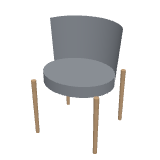
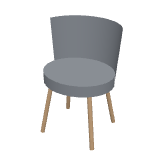
Open and glass-fronted fireplaces, trimmed hedge, wooden dining chair with arms; tub chair legs under the seat
Claude-Session: https://claude.ai/code/session_015nMawU8UEnxGBrfddyhb2N

diff --git a/frontend/render/modern.ts b/frontend/render/modern.ts
@@ -3205,7 +3205,7 @@ const BUILDERS: Record<string, Build> = {
     b.box(w - 0.06, h - seat - 0.05, 0.04, 0, seat + 0.05, -d / 2 + 0.04, f, 0.02)?.rotation.set(-0.1, 0, 0);
   },
   dining_armchair: (b, w, d, h, f, _c, a) => {
-    for (const sx of [-1, 1]) for (const sz of [-1, 1]) b.cyl(0.018, 0.014, 0.44, sx * (w / 2 - 0.05), 0, sz * (d / 2 - 0.05), a, 10);
+    for (const sx of [-1, 1]) for (const sz of [-1, 1]) b.rod(v(sx * w * 0.25, 0.42, 0.02 + sz * d * 0.22), v(sx * w * 0.36, 0, 0.02 + sz * d * 0.34), 0.016, a, 8);
     // a curved shell: back and arms in one, a cushion
     const shell = new THREE.CylinderGeometry(w / 2, w / 2 - 0.03, h - 0.44, 28, 1, true, Math.PI * 0.6, Math.PI * 0.8);
     shell.scale(1, 1, (d * 0.95) / w);
@@ -3235,6 +3235,81 @@ const BUILDERS: Record<string, Build> = {
     canopyAndCord(b, h, sh, a);
     b.add(new THREE.LatheGeometry([[0.06, 1], [0.12, 0.85], [0.18, 0.5], [0.35, 0.15], [0.5, 0]].map(([x, y]) => new THREE.Vector2(x * r * 2, y * sh)), 32), shadeMat(f, c), 0, 0, 0);
     bulb(b, 0, sh * 0.2, 0, 0.04);
+  },
+  fireplace_open: (b, w, d, h, f, _c, a) => {
+    // a classic open fireplace: a surround with a mantel shelf, an arched firebox, logs burning
+    const ow = w * 0.55;
+    const oh = Math.min(0.75, h * 0.6);
+    const s = new THREE.Shape();
+    s.moveTo(-w / 2, 0);
+    s.lineTo(w / 2, 0);
+    s.lineTo(w / 2, h - 0.08);
+    s.lineTo(-w / 2, h - 0.08);
+    s.lineTo(-w / 2, 0);
+    const hole = new THREE.Path();
+    hole.moveTo(-ow / 2, 0.08);
+    hole.lineTo(ow / 2, 0.08);
+    hole.lineTo(ow / 2, oh - ow * 0.2);
+    hole.quadraticCurveTo(0, oh + ow * 0.12, -ow / 2, oh - ow * 0.2);
+    hole.lineTo(-ow / 2, 0.08);
+    s.holes.push(hole);
+    const surround = new THREE.ExtrudeGeometry(s, { depth: d * 0.35, bevelEnabled: true, bevelSize: 0.01, bevelThickness: 0.01, bevelSegments: 1, curveSegments: 12 });
+    b.add(surround, f, 0, 0, d / 2 - d * 0.35);
+    b.box(ow + 0.02, oh + 0.05, d * 0.65, 0, 0.06, -d / 2 + d * 0.325, mat("#1b1714", { roughness: 1 }));
+    b.box(w + 0.14, 0.08, d + 0.06, 0, h - 0.08, 0.03, a, 0.01);
+    b.box(w + 0.3, 0.06, d + 0.3, 0, 0, 0.15, mat("#5e5a54", { roughness: 0.9 }), 0.005);
+    for (const [x, rz] of [[-0.12, 0.25], [0.1, -0.2], [0, 0]] as const) b.add(new THREE.CylinderGeometry(0.05, 0.05, ow * 0.7, 8).rotateZ(Math.PI / 2 + rz), mat(C.trunk), x * ow, 0.13 + (rz === 0 ? 0.07 : 0), 0.02);
+    fire(b, ow * 0.6, 0.12, 0.06, oh * 0.45);
+    for (const sx of [-1, 1]) b.cyl(0.03, 0.03, 0.14, sx * w * 0.32, h, 0.05, mat(C.ceramic), 12);
+  },
+  fireplace_glass: (b, w, d, h, f) => {
+    // a modern fire behind glass on three sides, a black frame, a plinth with logs stored under it
+    const base = Math.min(0.45, h * 0.35);
+    const fh = Math.min(0.55, h - base - 0.1);
+    b.box(w, base, d, 0, 0, 0, f, 0.01);
+    for (let i = 0; i < Math.round(w / 0.16); i++) b.add(new THREE.CylinderGeometry(0.05, 0.05, d * 0.8, 8).rotateX(Math.PI / 2), mat(i % 2 ? C.trunk : "#7a5a43"), -w / 2 + 0.1 + i * 0.16, 0.08, 0.05);
+    b.box(w - 0.04, base - 0.12, 0.02, 0, 0.1, d / 2 - 0.05, mat("#141414"));
+    const y = base;
+    b.box(w, 0.04, d, 0, y, 0, mat(C.black));
+    b.box(w, 0.04, d, 0, y + fh, 0, mat(C.black));
+    for (const sx of [-1, 1]) for (const sz of [-1, 1]) b.box(0.03, fh, 0.03, sx * (w / 2 - 0.015), y + 0.04, sz * (d / 2 - 0.015), mat(C.black));
+    b.box(w - 0.06, 0.02, d - 0.06, 0, y + 0.04, 0, mat("#3a3a3a", { roughness: 1 }));
+    fire(b, w * 0.7, y + 0.06, 0, fh * 0.6);
+    b.box(w - 0.03, fh - 0.04, 0.004, 0, y + 0.06, d / 2 - 0.015, glass());
+    for (const sx of [-1, 1]) b.box(0.004, fh - 0.04, d - 0.03, sx * (w / 2 - 0.015), y + 0.06, 0, glass());
+    b.box(w, h - y - fh - 0.04, d * 0.9, 0, y + fh + 0.04, -d * 0.05, f, 0.01);
+  },
+  hedge_trimmed: (b, w, d, h) => {
+    // a hedge cut to a crisp block: a slightly rounded core, small leaves all over
+    const rand = random(353);
+    b.batch(new RoundedBoxGeometry(w, h - 0.03, d, 3, Math.min(0.08, d / 4)), mat("#2f5a2f"), matrix(0, (h - 0.03) / 2 + 0.03, 0));
+    const leaf = smallLeaf(0.05);
+    const n = Math.min(2400, Math.round((w * h * 2 + d * h * 2 + w * d) * 160));
+    for (let i = 0; i < n; i++) {
+      const face = rand();
+      let x: number;
+      let y: number;
+      let z: number;
+      if (face < (w * d) / (w * d + 2 * w * h + 2 * d * h)) [x, y, z] = [(rand() - 0.5) * w, h, (rand() - 0.5) * d];
+      else if (rand() < w / (w + d)) [x, y, z] = [(rand() - 0.5) * w, 0.05 + rand() * (h - 0.05), (rand() > 0.5 ? 1 : -1) * (d / 2)];
+      else [x, y, z] = [(rand() > 0.5 ? 1 : -1) * (w / 2), 0.05 + rand() * (h - 0.05), (rand() - 0.5) * d];
+      b.batch(leaf.clone(), leafMat(i % 3 ? "#3f7037" : "#4f8a3f"), matrix(x, y, z, rand() * Math.PI, rand() * Math.PI * 2, rand() * Math.PI, 0.8 + rand() * 0.5));
+    }
+    b.box(w * 0.2, 0.05, d * 0.3, 0, 0, 0, mat(C.trunk));
+  },
+  chair_arm_wood: (b, w, d, h, f, _c, a) => {
+    // a classic wooden dining chair with arms and an upholstered seat
+    for (const sx of [-1, 1]) {
+      const x = sx * (w / 2 - 0.03);
+      b.box(0.04, 0.65, 0.04, x, 0, d / 2 - 0.05, f);
+      b.box(0.04, h, 0.04, x, 0, -d / 2 + 0.04, f)?.rotation.set(-0.06, 0, 0);
+      b.box(0.05, 0.03, d - 0.02, x, 0.65, 0.0, f, 0.01);
+      b.box(0.03, 0.03, d - 0.1, x, 0.15, 0, f);
+    }
+    b.box(w - 0.06, 0.06, d - 0.08, 0, 0.4, 0.01, f, 0.01);
+    b.box(w - 0.1, 0.06, d - 0.14, 0, 0.45, 0.02, a, 0.025);
+    b.box(w - 0.08, 0.12, 0.03, 0, h - 0.14, -d / 2 + 0.05, f, 0.01)?.rotation.set(-0.06, 0, 0);
+    for (let i = 0; i < 3; i++) b.box(0.03, h - 0.65, 0.02, -w * 0.18 + i * w * 0.18, 0.5, -d / 2 + 0.06, f)?.rotation.set(-0.06, 0, 0);
   },
   // ----- vehicles -----
   car_hatchback: (b, w, d, h, _f, color) => car(b, w, d, h, color, "hatchback"),

diff --git a/frontend/model/modern.ts b/frontend/model/modern.ts
@@ -107,6 +107,8 @@ export const MODERN_GROUPS: { id: string; kinds: ModernKind[] }[] = [
       k("mirror_wall", "mirror", [0.5, 0.03, 1.1], ["black", "oak", "white", "sand"], { mount: "wall", elevation: 0.9 }),
       k("fireplace_stove", "item", [0.55, 0.45, 2.4], ["black", "anthracite", "red"]),
       k("fireplace_wall", "item", [1.6, 0.4, 1.3], ["white", "concrete", "anthracite"]),
+      k("fireplace_open", "item", [1.5, 0.45, 1.2], ["white", "concrete", "sand", "terracotta", "anthracite"], { accents: ["oak", "walnut", "white", "marble", "black"] }),
+      k("fireplace_glass", "item", [1.0, 0.55, 2.4], ["anthracite", "white", "concrete", "black"]),
       k("piano_upright", "item", [1.5, 0.6, 1.25], ["black", "walnut", "white"]),
       k("piano_grand", "item", [1.5, 1.9, 1.0], ["black", "white", "walnut"]),
       k("aquarium", "item", [1.0, 0.42, 1.3], WOOD),
@@ -130,6 +132,7 @@ export const MODERN_GROUPS: { id: string; kinds: ModernKind[] }[] = [
       k("bar_stool", "stool", [0.4, 0.4, 0.75], ["black", "oak", "white"], { accents: ["black", "brass", "chrome"] }),
       k("bar_stool_back", "stool", [0.45, 0.45, 1.0], FABRIC, { accents: ["black", "brass", "oak", "chrome"] }),
       k("dining_armchair", "chair", [0.58, 0.55, 0.8], FABRIC, { accents: ["oak", "walnut", "black", "brass"] }),
+      k("chair_arm_wood", "chair", [0.56, 0.54, 0.92], ["oak", "walnut", "black", "white"], { accents: FABRIC }),
       k("chair_cantilever", "chair", [0.46, 0.56, 0.82], ["black", "grey", "beige", "anthracite", "terracotta", "green"], { accents: ["chrome", "black", "brass"] }),
       k("chair_upholstered", "chair", [0.5, 0.58, 0.88], FABRIC, { accents: ["oak", "walnut", "black", "brass"] }),
       k("chair_spindle", "chair", [0.5, 0.52, 0.9], ["oak", "walnut", "black", "white", "green"]),
@@ -331,6 +334,7 @@ export const MODERN_GROUPS: { id: string; kinds: ModernKind[] }[] = [
       k("shrub", "bush", [1.2, 1.2, 1.0], ["green"]),
       k("ornamental_grass", "bush", [0.8, 0.8, 0.9], ["green", "sand"]),
       k("hedge_leafy", "hedge", [3, 0.7, 1.6], ["green"]),
+      k("hedge_trimmed", "hedge", [3, 0.6, 1.4], ["green"]),
       k("flower_bed", "flower_bed", [2, 0.8, 0.45], ["terracotta", "pink", "white", "blue"]),
       k("lavender", "flower_bed", [1.6, 0.5, 0.5], ["blue"]),
       k("rose_bush", "bush", [0.8, 0.8, 1.0], ["green"]),
